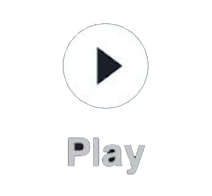
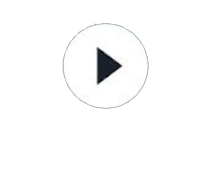
Reworking button art. Looks alright now I think.

Changed region(s): [[0.3113, 0.6735, 0.7075, 0.9184]]

diff --git a/src/main/java/stylesheet.css b/src/main/java/stylesheet.css
@@ -91,6 +91,7 @@
     -fx-min-height: 100px;
     -fx-background-repeat: no-repeat;
     -fx-background-position: center;
+    -fx-background-color: #22262f;
     -fx-background-size: 100px 100px;
 }
 
@@ -117,7 +118,7 @@
 }
 
 .tutorial-button {
-	-fx-background-image: url(../../images/playbutton.png);
+	-fx-background-image: url(../../images/tutorialbutton.png);
 }
 
 .falessi {

diff --git a/src/main/java/proj/polypong/Menu.java b/src/main/java/proj/polypong/Menu.java
@@ -11,6 +11,8 @@ import javafx.scene.layout.VBox;
 import javafx.scene.paint.Color;
 
 public class Menu extends  Window {
+	private static final String button = "button";
+	private static final String mainbutton = "mainmenu-button";
 	
 	private GameController gc; 
 	public Menu(GameController gc) {
@@ -23,20 +25,20 @@ public class Menu extends  Window {
 		this.setStyle("-fx-background-color: #22262f;");
         this.getStylesheets().add("stylesheet.css");
 		Button playGame = new Button("");
-		playGame.getStyleClass().remove("button");
-		playGame.getStyleClass().addAll("mainmenu-button", "play-button");
+		playGame.getStyleClass().remove(button);
+		playGame.getStyleClass().addAll(mainbutton, "play-button");
 		Button viewScoreboard = new Button("");
-		viewScoreboard.getStyleClass().remove("button");
-		viewScoreboard.getStyleClass().addAll("mainmenu-button", "scoreboard-button");
+		viewScoreboard.getStyleClass().remove(button);
+		viewScoreboard.getStyleClass().addAll(mainbutton, "scoreboard-button");
 		Button settings  = new Button("");
-		settings.getStyleClass().remove("button");
-		settings.getStyleClass().addAll("mainmenu-button", "settings-button");
+		settings.getStyleClass().remove(button);
+		settings.getStyleClass().addAll(mainbutton, "settings-button");
 		Button tutorial = new Button("");
-		tutorial.getStyleClass().remove("button");
-		tutorial.getStyleClass().addAll("mainmenu-button", "tutorial-button");
+		tutorial.getStyleClass().remove(button);
+		tutorial.getStyleClass().addAll(mainbutton, "tutorial-button");
 		Label logo = new Label("");
 		logo.getStyleClass().add("logo");
-        Scene scene = new Scene(this, width, height, Color.BLACK);
+        Scene scene = new Scene(this, width, height);
         
         playGame.setOnAction(new EventHandler<ActionEvent>() {
     		public void handle(ActionEvent even ) {
